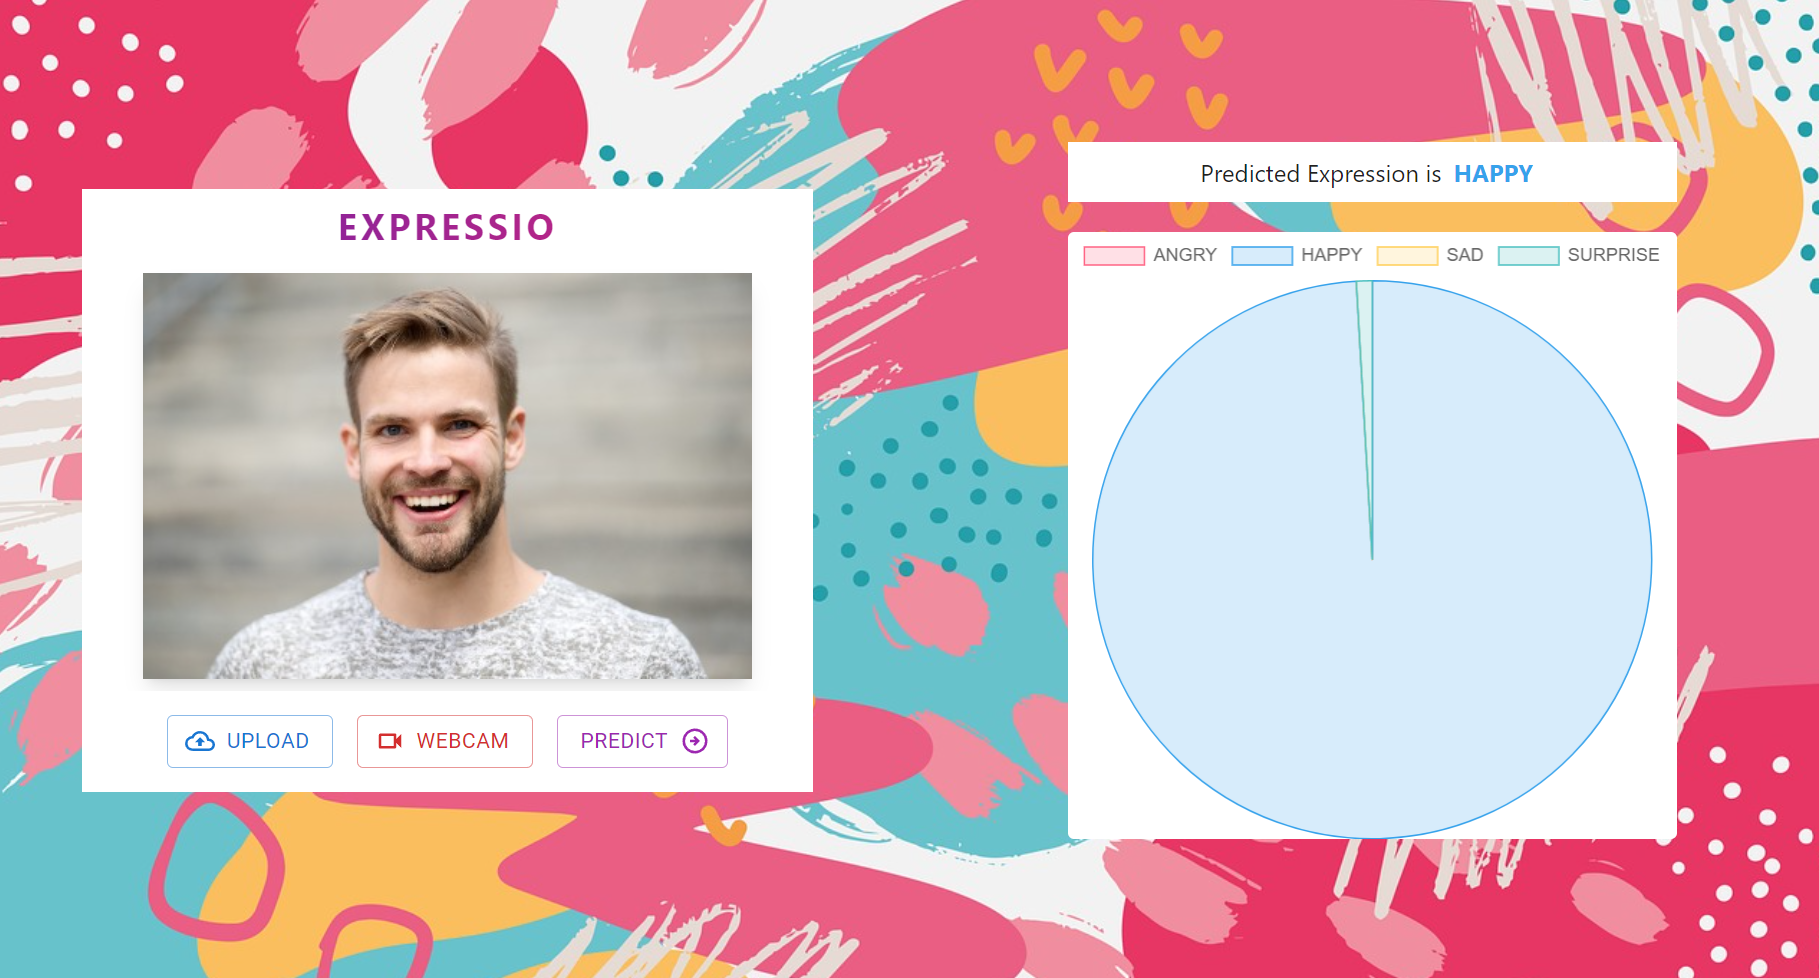
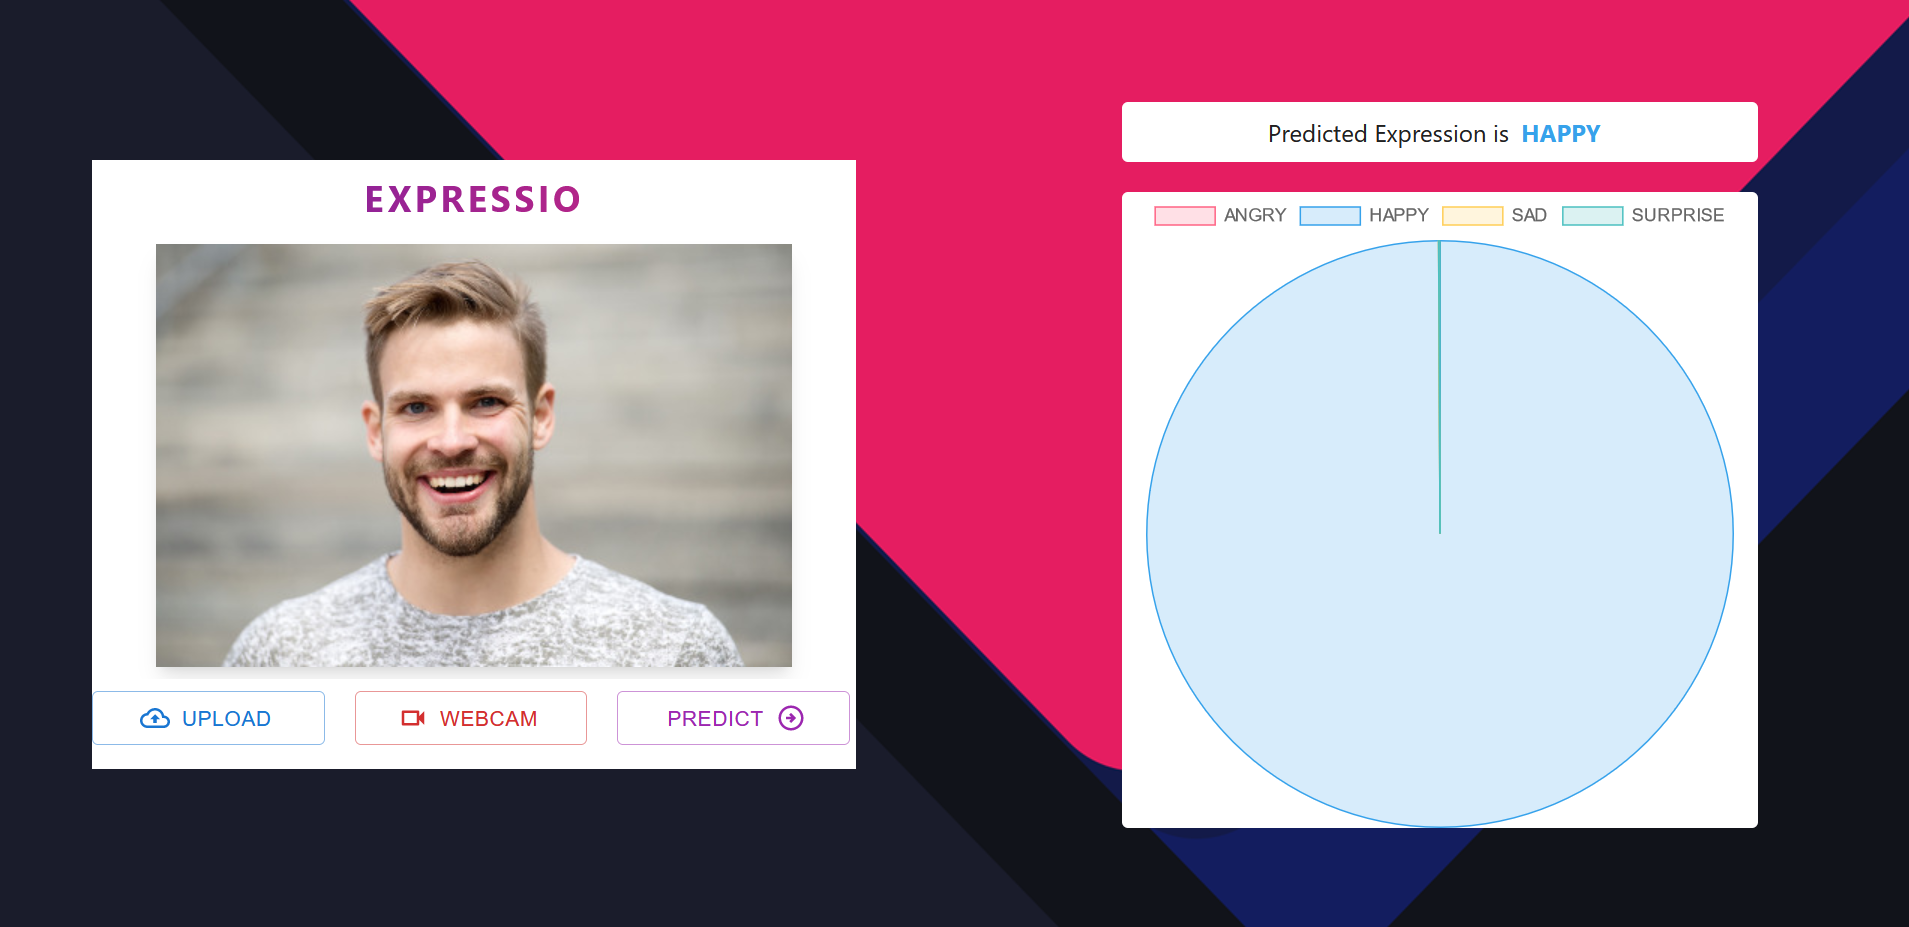
update requirements.txt and README

diff --git a/expressio/src/components/UserInput.js b/expressio/src/components/UserInput.js
@@ -1,4 +1,3 @@
-// Importing necessary components and libraries
 import React, { useState, useRef, useEffect } from 'react';
 import { Box, Grid, Paper, Button } from '@mui/material';
 import ArrowCircleRightOutlinedIcon from '@mui/icons-material/ArrowCircleRightOutlined';
@@ -113,7 +112,7 @@ function UserInput({ setPredicted, setPredictionArr }) {
         const formData = new FormData();
         formData.append('image', blob, 'image.jpeg');
 
-        fetch('https://expressio-fer.onrender.com/upload', {
+        fetch('http://localhost:5000/upload', {
             method: 'POST',
             body: formData
         }).then(response => {
@@ -124,7 +123,7 @@ function UserInput({ setPredicted, setPredictionArr }) {
         }).then(data => {
             console.log('Image Uploaded:', data);
 
-            return axios.get('https://expressio-fer.onrender.com/predict');
+            return axios.get('http://localhost:5000/predict');
         }).then(response => {
             setPredictionArr(response.data.predictionArr);
             setPredicted(response.data.prediction);
@@ -136,14 +135,14 @@ function UserInput({ setPredicted, setPredictionArr }) {
 
     return (
         <div style={{ height: '100%' }} className="flex justify-around align-middle">
-            <Box style={{ height: '100%' }} className="flex flex-col justify-center align-middle w-4/5 bg-transparent">
+            <Box style={{ height: '100%' }} className="flex flex-col justify-center align-middle w-4/5">
                 <Paper square elevation={0} className='py-2'>
                     <div className='text-center'>
-                        <h1 className='text-base sm:text-lg md:text-xl lg:text-2xl xl:text-3xl font-bold bg-gradient-to-r from-purple-800 to-pink-600 text-transparent bg-clip-text tracking-widest'>EXPRESSIO</h1>
+                        <h1 className='font-bold text-2xl bg-gradient-to-r from-purple-800 to-pink-600 text-transparent bg-clip-text tracking-widest'>EXPRESSIO</h1>
                     </div>
                 </Paper>
                 <Paper square className='flex justify-center align-middle py-2' elevation={0}>
-                    <div className='flex w-5/6 shadow-lg h-full' id='image'>
+                    <div className='flex w-full md:w-5/6 shadow-lg h-full overflow-hidden' id='image'>
                         {image ? (
                             <img src={image} alt="Uploaded" width={imageDimensions.width} height={imageDimensions.height} />
                         ) : (
@@ -151,27 +150,27 @@ function UserInput({ setPredicted, setPredictionArr }) {
                         )}
                     </div>
                 </Paper>
-                <Paper square elevation={0} className='flex justify-center'>
-                    <Grid className='flex flex-col justify-center'>
-                        <Grid item className='px-2 py-4'>
-                            <Button component="label" role={undefined} variant="outlined" startIcon={<BackupOutlinedIcon />}>
+                <Paper square elevation={0} className=' justify-center py-2'>
+                    <Grid container spacing={2}>
+                        <Grid item xs={6} sm={4} className='px-1 py-2'>
+                            <Button component="label" role={undefined} variant="outlined" fullWidth startIcon={<BackupOutlinedIcon />}>
                                 Upload
                                 <VisuallyHiddenInput type="file" onChange={handleImageUpload} />
                             </Button>
                         </Grid>
-                        <Grid item className='px-2 py-4'>
+                        <Grid item xs={6} sm={4} className='px-1 py-2'>
                             {!isWebcamActive ? (
-                                <Button onClick={handleOpenCamera} color='error' variant="outlined" startIcon={<VideocamOutlinedIcon />} sx={{ backgroundColor: 'white' }}>
+                                <Button onClick={handleOpenCamera} color='error' variant="outlined" fullWidth startIcon={<VideocamOutlinedIcon />} sx={{ backgroundColor: 'white' }}>
                                     WebCam
                                 </Button>
                             ) : (
-                                <Button onClick={handleCapture} color='error' variant="outlined" startIcon={<BackupOutlinedIcon />}>
+                                <Button onClick={handleCapture} color='error' variant="outlined" fullWidth startIcon={<BackupOutlinedIcon />}>
                                     Capture
                                 </Button>
                             )}
                         </Grid>
-                        <Grid item className='px-2 py-4'>
-                            <Button variant="outlined" color='secondary' onClick={predictExpression} endIcon={<ArrowCircleRightOutlinedIcon />}>
+                        <Grid item xs={12} sm={4} className='px-1 py-2'>
+                            <Button variant="outlined" color='secondary' fullWidth onClick={predictExpression} endIcon={<ArrowCircleRightOutlinedIcon />}>
                                 Predict
                             </Button>
                         </Grid>

diff --git a/expressio/src/components/HomePage.js b/expressio/src/components/HomePage.js
@@ -13,17 +13,18 @@ function HomePage() {
     // Render function
     return (
         <div style={{ height: '100vh', backgroundImage: `url(${backgroundImage})`, backgroundSize: 'cover' }}>
-            <Grid style={{ height: '100%' }} container spacing={1}>
+            < Grid style={{ height: '100%' }
+            } container spacing={1} >
                 {/* UserInput component */}
-                <Grid item xs={12} md={6}>
+                < Grid item xs={12} md={6} >
                     <UserInput setPredicted={setPredicted} setPredictionArr={setPredictionArr} />
-                </Grid>
+                </Grid >
                 {/* ModelPredictions component */}
-                <Grid item xs={12} md={6}>
+                < Grid item xs={12} md={6} >
                     <ModelPredictions predicted={predicted} predictionArr={predictionArr} />
-                </Grid>
-            </Grid>
-        </div>
+                </Grid >
+            </Grid >
+        </div >
     );
 }
 

diff --git a/README.md b/README.md
@@ -12,7 +12,7 @@
 
 <h3 id="introduction">Introduction</h3>
 <div>
-    Facial expressions are cornerstone of human communication, serving as powerful indicators of emotions, intentions, and social cues. From a smile indicating happiness to a furrowed brow signaling concern, facial expressions play a fundamental role in interpersonal interactions. Understanding and interpreting these expressions are crucial not only for effective communication but also for various fields such as artificial intelligence.
+    Facial expressions are cornerstone of human communication, serving as powerful indicators of emotions, intentions and social cues. From a smile indicating happiness to a furrowed brow signaling concern, facial expressions play a fundamental role in interpersonal interactions. Understanding and interpreting these expressions are crucial not only for effective communication but also for various fields such as artificial intelligence.
     <br><br>
     In today's digital age, the ability to recognize and analyze facial expressions has become increasingly important, with applications ranging from sentiment analysis in customer service to emotion detection in numerous sectors. Harnessing the power of facial expression recognition technology opens up a myriad of possibilities for enhancing human-computer interaction, improving user experiences, and developing innovative solutions.
 </div>
@@ -20,7 +20,7 @@
 <h3 id="overview">Overview</h3>
 
 <div>
-    Expressio is driven by a vision to revolutionize the field of facial expression analysis. It stands as a <b>web-based facial recognition application</b>, crafted to predict four basic human expressions – <b>anger, surprise, sadness, and happiness</b>.
+    Expressio is driven by a vision to revolutionize the field of facial expression analysis. It stands as a <b>web-based facial recognition application</b>, crafted to predict four basic human expressions – <b>anger, surprise, sadness and happiness</b>.
 </div>
 <br>
 
@@ -84,10 +84,10 @@ As evident from the prior drawn flowchart, once an image is uploaded and the <co
 
 First, the face is extracted from the image using <b>Haar Cascades</b>, as our model is designed to process facial data rather than the entire person. This extraction step ensures that only the relevant portion of the image is used for prediction. 
 
-Next, I perform preprocessing using the <b>OpenCV</b> library. This preprocessing includes converting the image to grayscale and resizing it to a compatible size that the model can accept. These steps are crucial to ensure the image data aligns with the input specifications of our prediction model, facilitating accurate and efficient processing.
+Next, I perform preprocessing using the <b>OpenCV</b> library. This preprocessing includes converting the image to grayscale and resizing it to a compatible size that the model can accept. These steps are crucial to ensure the image data aligns with the input specifications of the prediction model, facilitating accurate processing.
 
 <h4>Training the Model</h4>
-For training the model, I used the <b>FER2013</b> dataset, which is part of the famous Facial Expression Recognition (FER) Challenge. It is a CSV file that contains three columns, as demonstrated below.
+For training the model, I used the <b>FER2013</b> dataset, which is part of the famous Facial Expression Recognition (FER) Challenge. It is a CSV file that comprises of three columns, as demonstrated below.
 
 <br><br>
 <img src="./media/dataset.png" width="400">
@@ -161,7 +161,7 @@ The architecture underwent training for <b>50</b> epochs with a batch size of <b
 Below, I showcase the results extracted upon training the model.
 
 <img src="./media/training-loss.png">
-<br><br>
+<br>
 <img src="./media/dataset-results.png">
 
 <!-- <h3 id="installation-and-setup">Installation and Setup</h3> -->
@@ -178,7 +178,8 @@ The landing page comprises of two distinct sections:
 
 <ul>
     <li>
-        The section on the left allows you to either upload an image from your device or leverage the system's webcam to capture a snapshot in real-time. As illustrated above, you can see the following buttons:
+        The section on the left allows you to either upload an image from your device or leverage the system's webcam to capture a snapshot in real-time. The buttons in the section are detailed as follows:
+        <br><br>
         <ul>
             <li>
                 <strong>UPLOAD</strong>: Opens the file explorer to select and upload an image from your local system.
@@ -228,7 +229,7 @@ The landing page comprises of two distinct sections:
 
 <h3 id="future-work">Future Work</h3>
 <ul>
-    <li><b>Augmenting the Uploaded Image</b>: Implement a feature in the application where, upon clicking the predict function, the user is presented with an option to apply transformations to the image, such as adjusting contrast, brightness, rotation, and cropping, before submitting it for prediction.</li>
+    <li><b>Augmenting the Uploaded Image</b>: Implement a feature in the application where, upon clicking the predict function, the user is presented with an option to apply transformations to the image, such as adjusting contrast brightness, rotation, and cropping, before submitting it for prediction.</li>
     <li><b>Elevating Model Robustness</b>: Enhance the model architecture and apply augmentations to the existing dataset to build a more robust model capable of predicitng facial expression with better precision.</li>
 </ul>
 
